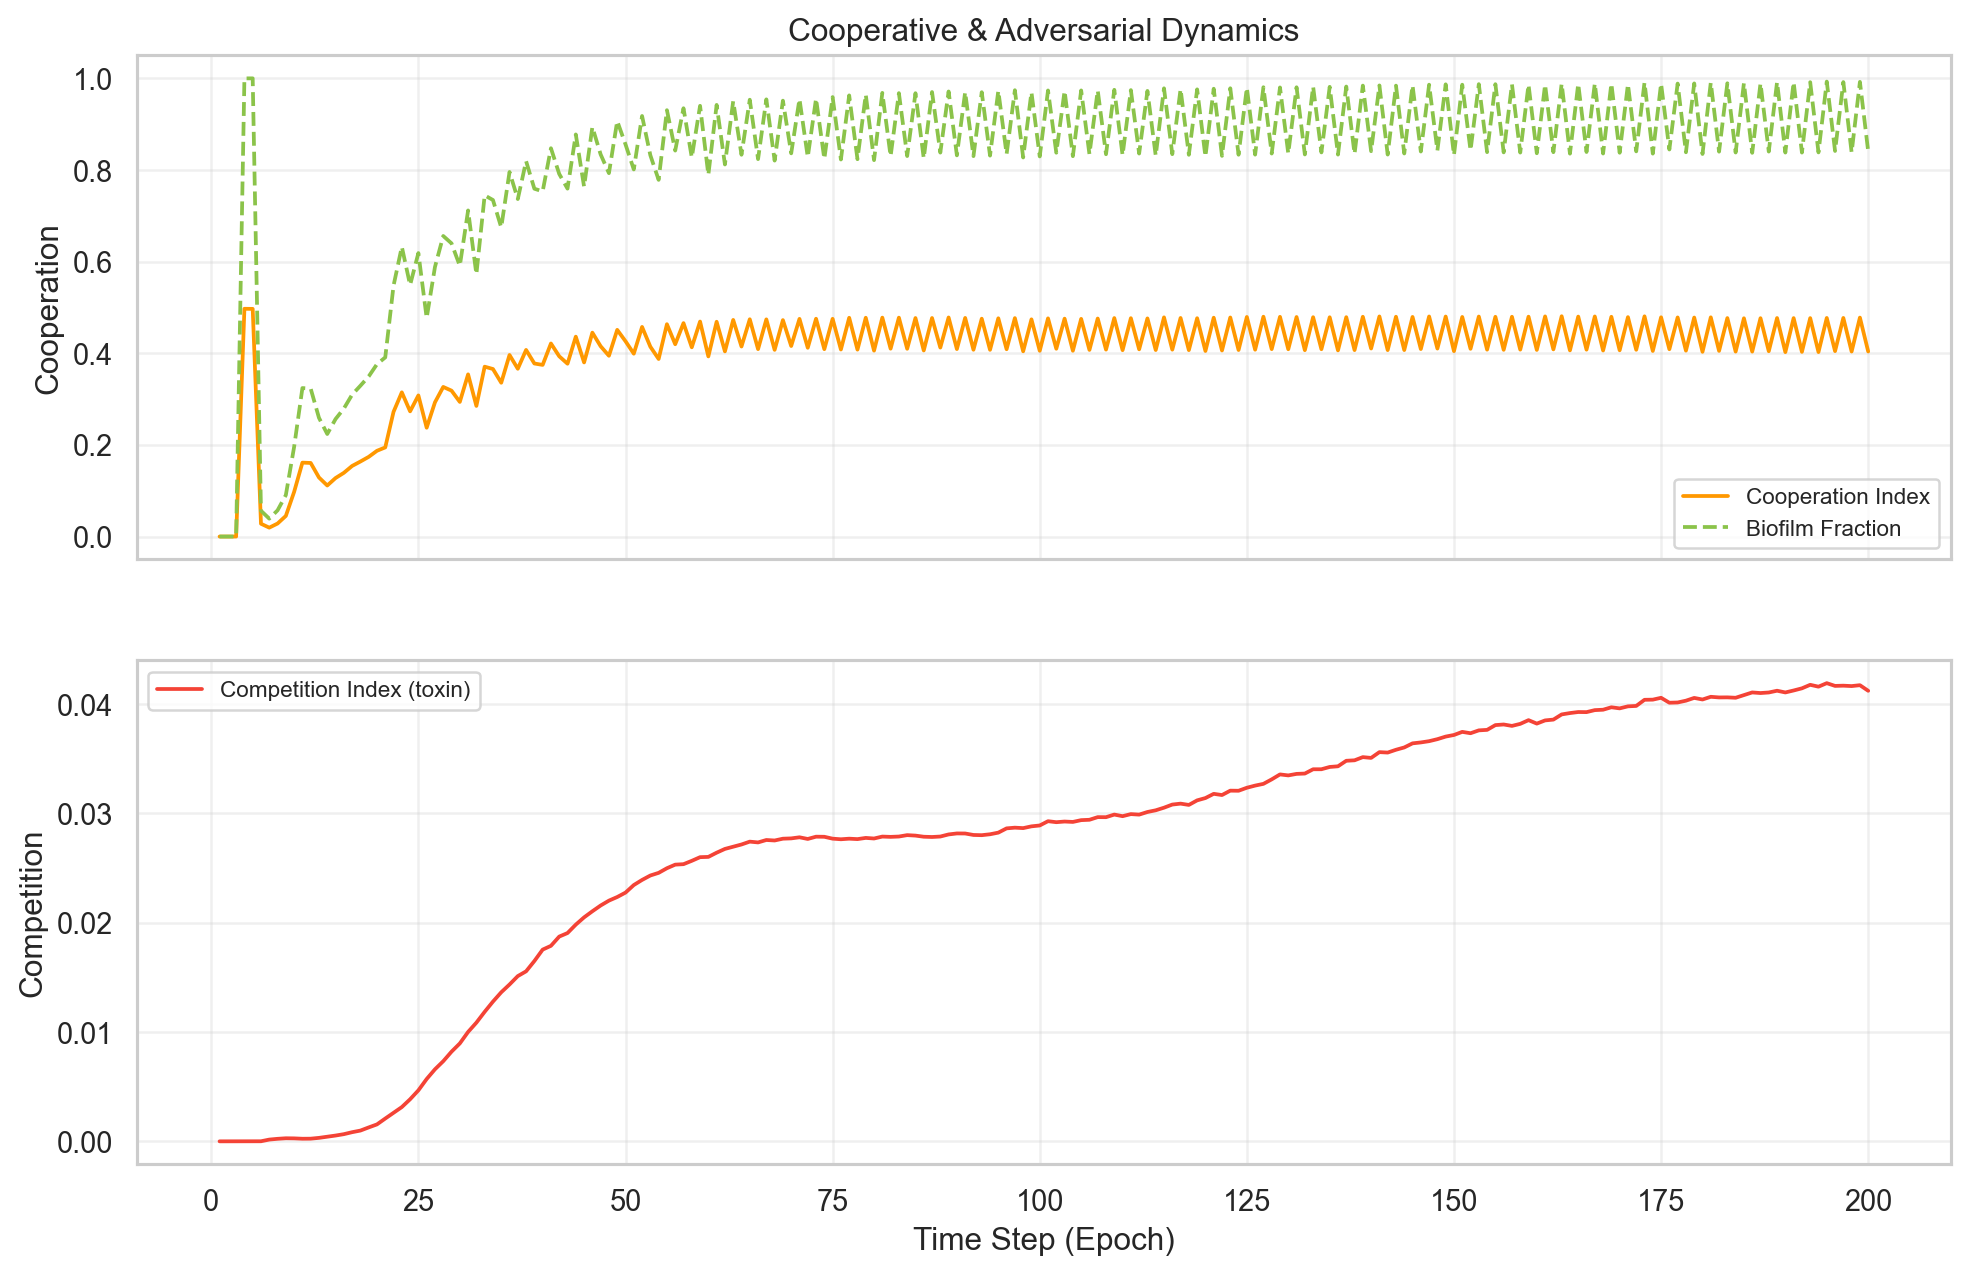
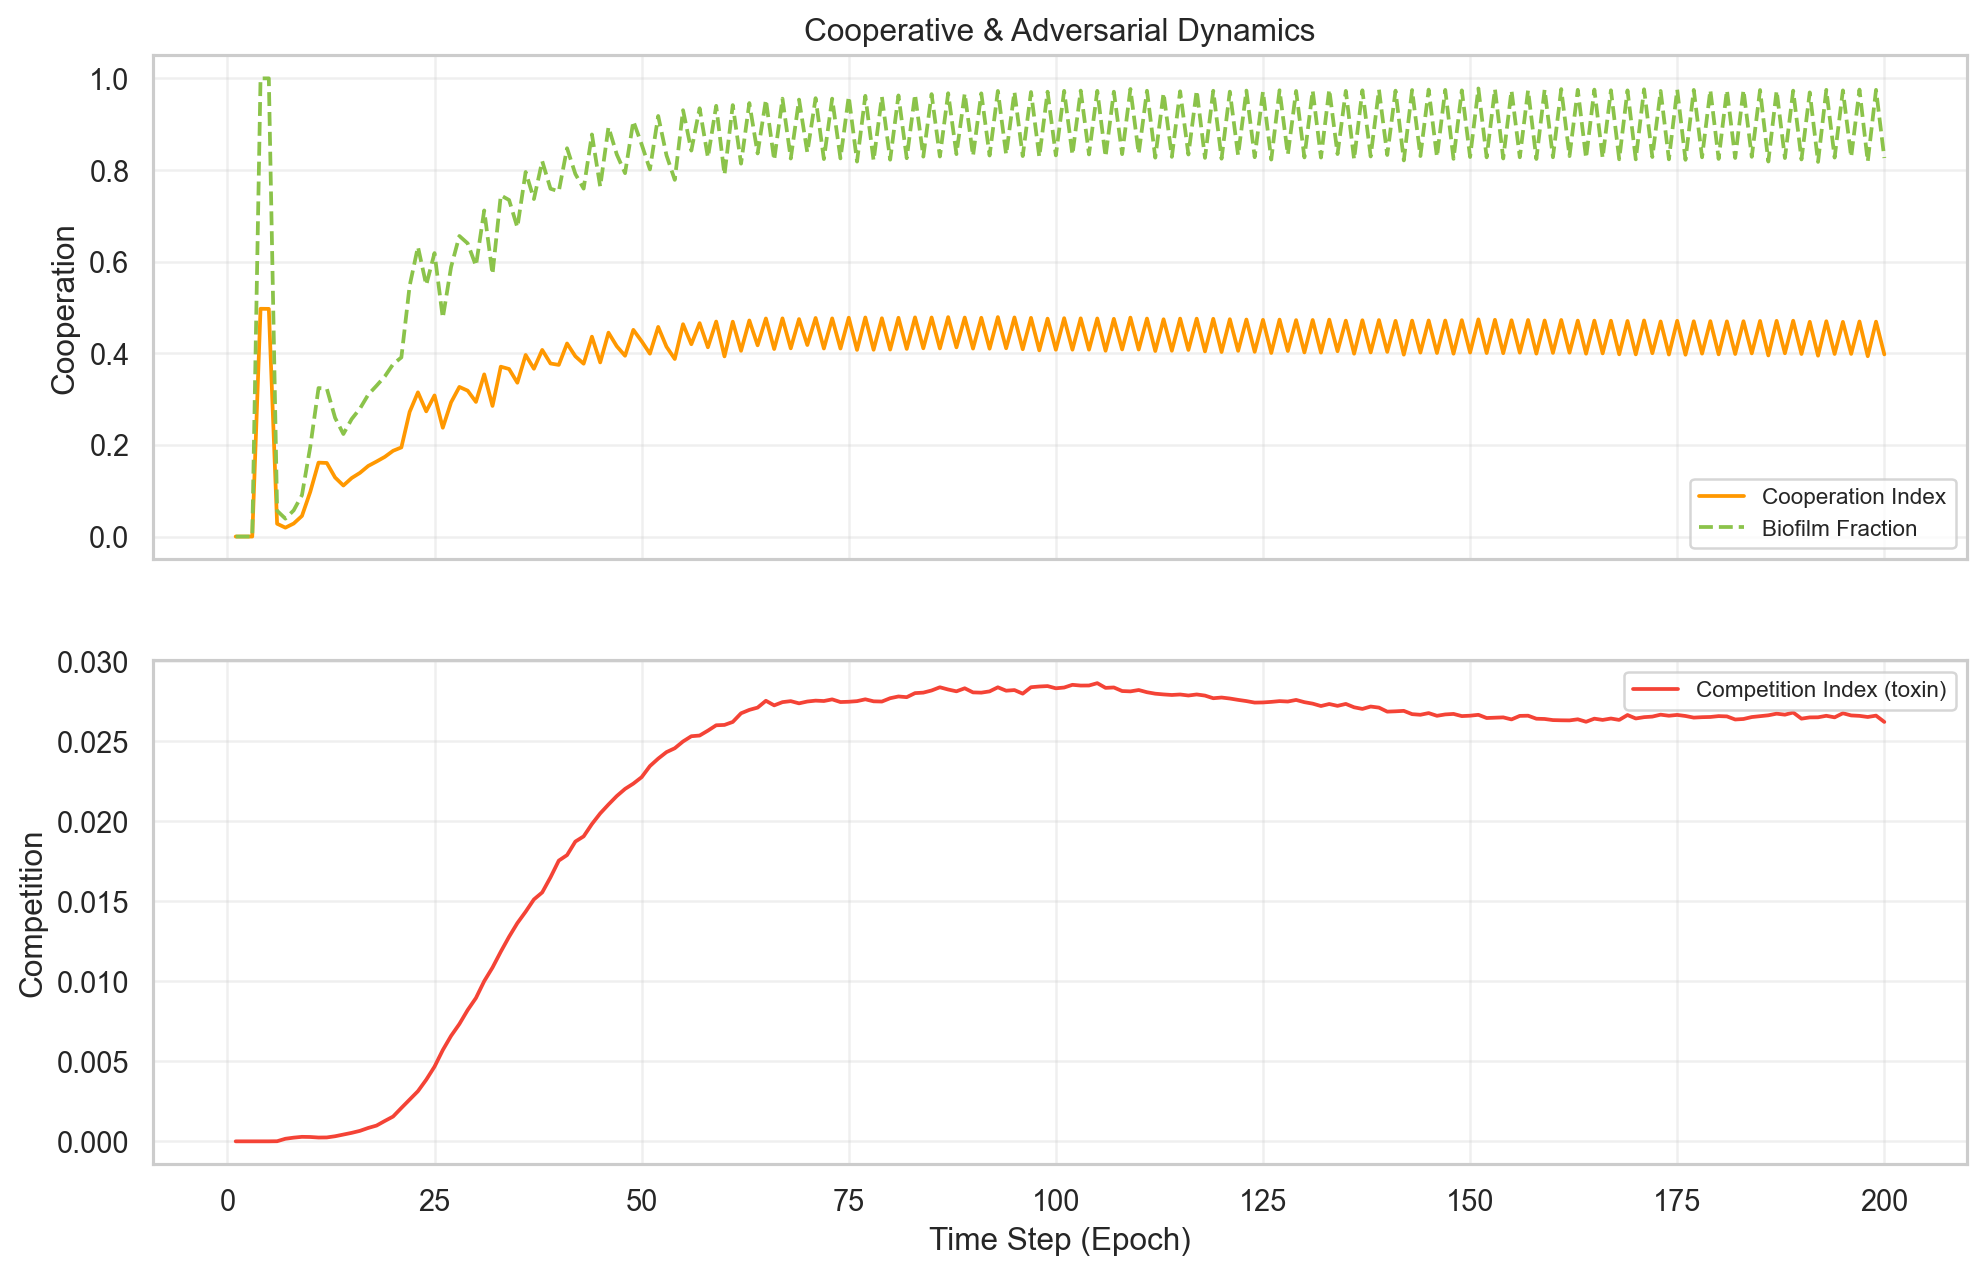
some improvement

diff --git a/templates/index.html b/templates/index.html
@@ -211,7 +211,7 @@ body{font-family:'Segoe UI',system-ui,-apple-system,sans-serif;background:var(--
         <div class="form-group"><label>Resource Scenario</label>
           <select id="cfgResource"><option value="resource-rich">Resource Rich</option><option value="resource-depleted">Resource Depleted</option></select></div>
         <div class="form-group"><label>Antibiotic Mode</label>
-          <select id="cfgABMode"><option value="gradual">Gradual</option><option value="spike">Spike</option></select></div>
+          <select id="cfgABMode"><option value="gradual">Gradual (top→bottom front)</option><option value="spike">Spike (uniform bolus)</option><option value="center">Center (radial spread)</option><option value="sweep">Sweep (row-by-row)</option></select></div>
         <div class="form-group"><label>Antibiotic Start Epoch</label><input type="number" id="cfgABStart" value="60"/></div>
         <div class="form-group"><label>Random Seed</label><input type="text" id="cfgSeed" value="42" placeholder="blank = random"/></div>
         <div class="form-group"><label>Grid Width</label><input type="number" id="cfgGridW" value="200" min="20" max="500"/></div>

diff --git a/environment.py b/environment.py
@@ -108,22 +108,42 @@ class Environment:
 
     def _update_antibiotic(self, epoch: int) -> None:
         if epoch >= self.ab_start_epoch:
+            elapsed = epoch - self.ab_start_epoch
+
             if self.ab_mode == "gradual":
-                # Introduce with spatial gradient from top edge —
-                # models drug diffusion from source (disk-diffusion analogy).
-                # Linear falloff across top 60% of grid.
-                grad = np.zeros(self.shape, dtype=np.float64)
-                depth = int(self.height * 0.6)
-                for r in range(depth):
-                    frac = 1.0 - r / depth  # 1.0 at top → 0.0 at depth
-                    grad[r, :] = self.ab_gradual_rate * frac
-                self.antibiotic += grad
-            elif self.ab_mode == "spike" and epoch == self.ab_start_epoch:
-                # Spike with gradient from top
-                depth = int(self.height * 0.6)
-                for r in range(depth):
-                    frac = 1.0 - r / depth
-                    self.antibiotic[r, :] += self.ab_spike_conc * frac
+                # Advancing front: the injection row moves downward each epoch.
+                # The front advances at ~1 row/epoch, so the full grid is
+                # covered over H epochs — models IV drip or gradual perfusion.
+                front_row = min(elapsed, self.height - 1)
+                # Inject at the current front row and a few rows above it
+                band = max(1, int(self.height * 0.05))  # 5% of grid as band
+                for r in range(max(0, front_row - band), front_row + 1):
+                    self.antibiotic[r, :] += self.ab_gradual_rate
+
+            elif self.ab_mode == "spike":
+                # Single bolus applied uniformly at start epoch
+                if epoch == self.ab_start_epoch:
+                    self.antibiotic += self.ab_spike_conc
+
+            elif self.ab_mode == "center":
+                # Radial spread from center — models localized injection.
+                # The radius grows each epoch; concentration decays with
+                # distance from center (Gaussian-like profile).
+                cy, cx = self.height / 2.0, self.width / 2.0
+                radius = min(elapsed * 1.0, max(self.height, self.width) / 2.0)
+                yy, xx = np.ogrid[:self.height, :self.width]
+                dist = np.sqrt((yy - cy) ** 2 + (xx - cx) ** 2)
+                mask = dist <= radius
+                # Concentration falls off with distance from center
+                falloff = np.where(mask, 1.0 - dist / (radius + 1e-9), 0.0)
+                self.antibiotic += self.ab_gradual_rate * falloff
+
+            elif self.ab_mode == "sweep":
+                # Full-width sweep from top to bottom over grid-height epochs.
+                # Each epoch, a thin horizontal band injects antibiotic.
+                row = min(elapsed, self.height - 1)
+                self.antibiotic[row, :] += self.ab_gradual_rate * 2.0
+
         self.antibiotic *= (1.0 - self.ab_decay)
         self.antibiotic = self._diffuse(self.antibiotic, self.ab_diffusion)
         ab_max = self.cfg.get("antibiotic", {}).get("max_concentration", 10.0)

diff --git a/dashboard.py b/dashboard.py
@@ -234,6 +234,9 @@ def download_report():
         csv_path = os.path.join("output", "simulation_metrics.csv")
         if os.path.isfile(csv_path):
             zf.write(csv_path, os.path.join("report", "simulation_metrics.csv"))
+        # Add config file
+        if os.path.isfile("config.yaml"):
+            zf.write("config.yaml", os.path.join("report", "config.yaml"))
     buf.seek(0)
     return send_file(
         buf,
